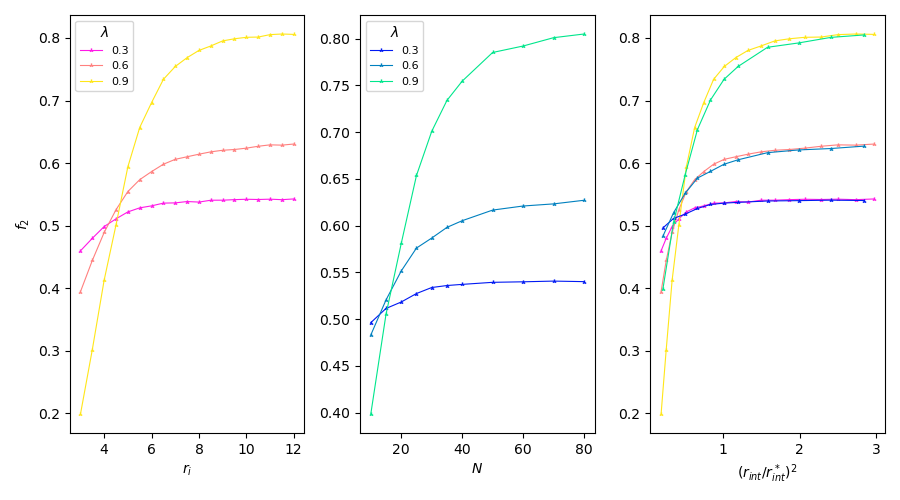
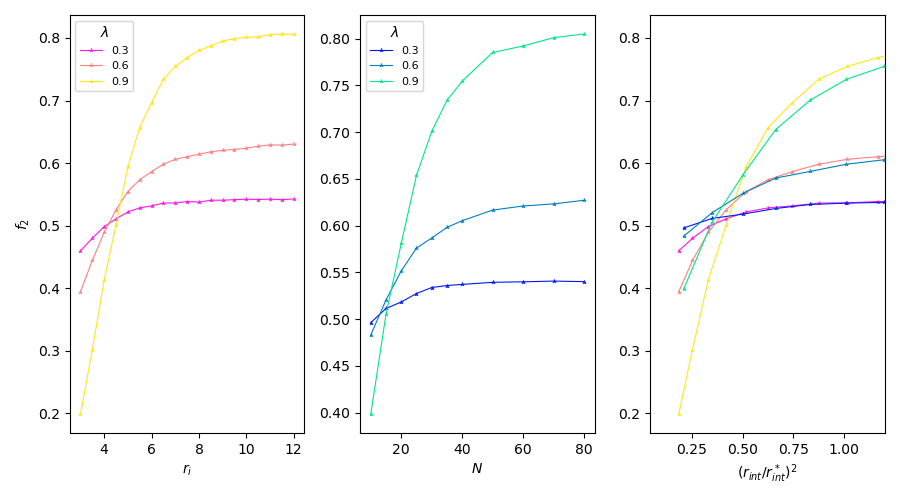
work 8 may

diff --git a/sim_some_params_frozen/sim_results_Nbots_vs_interac_r.py b/sim_some_params_frozen/sim_results_Nbots_vs_interac_r.py
@@ -83,7 +83,7 @@ ax[1].set_xlabel('$N$')
 ax[2].set_xlabel(r'$(r_{{int}}/r_{{int}}^*)^2$')
 # ax[2].set_xlim(0.02, 0.14) # when plotting as a function of N*(ri/rperc)**2 / R**2
 # ax[2].set_xlim(None, 5) # when plotting as a function of N*(ri/R)**2
-# ax[2].set_xlim(None, 1.2) # when plotting as a function of (ri/ri*)**2
+ax[2].set_xlim(None, 1.2) # when plotting as a function of (ri/ri*)**2
 ax[0].set_ylabel('$f_2$')
 #fig.legend(title='$\lambda$', bbox_to_anchor=(0.09, 0.87, 0.08, 0.08))
 
